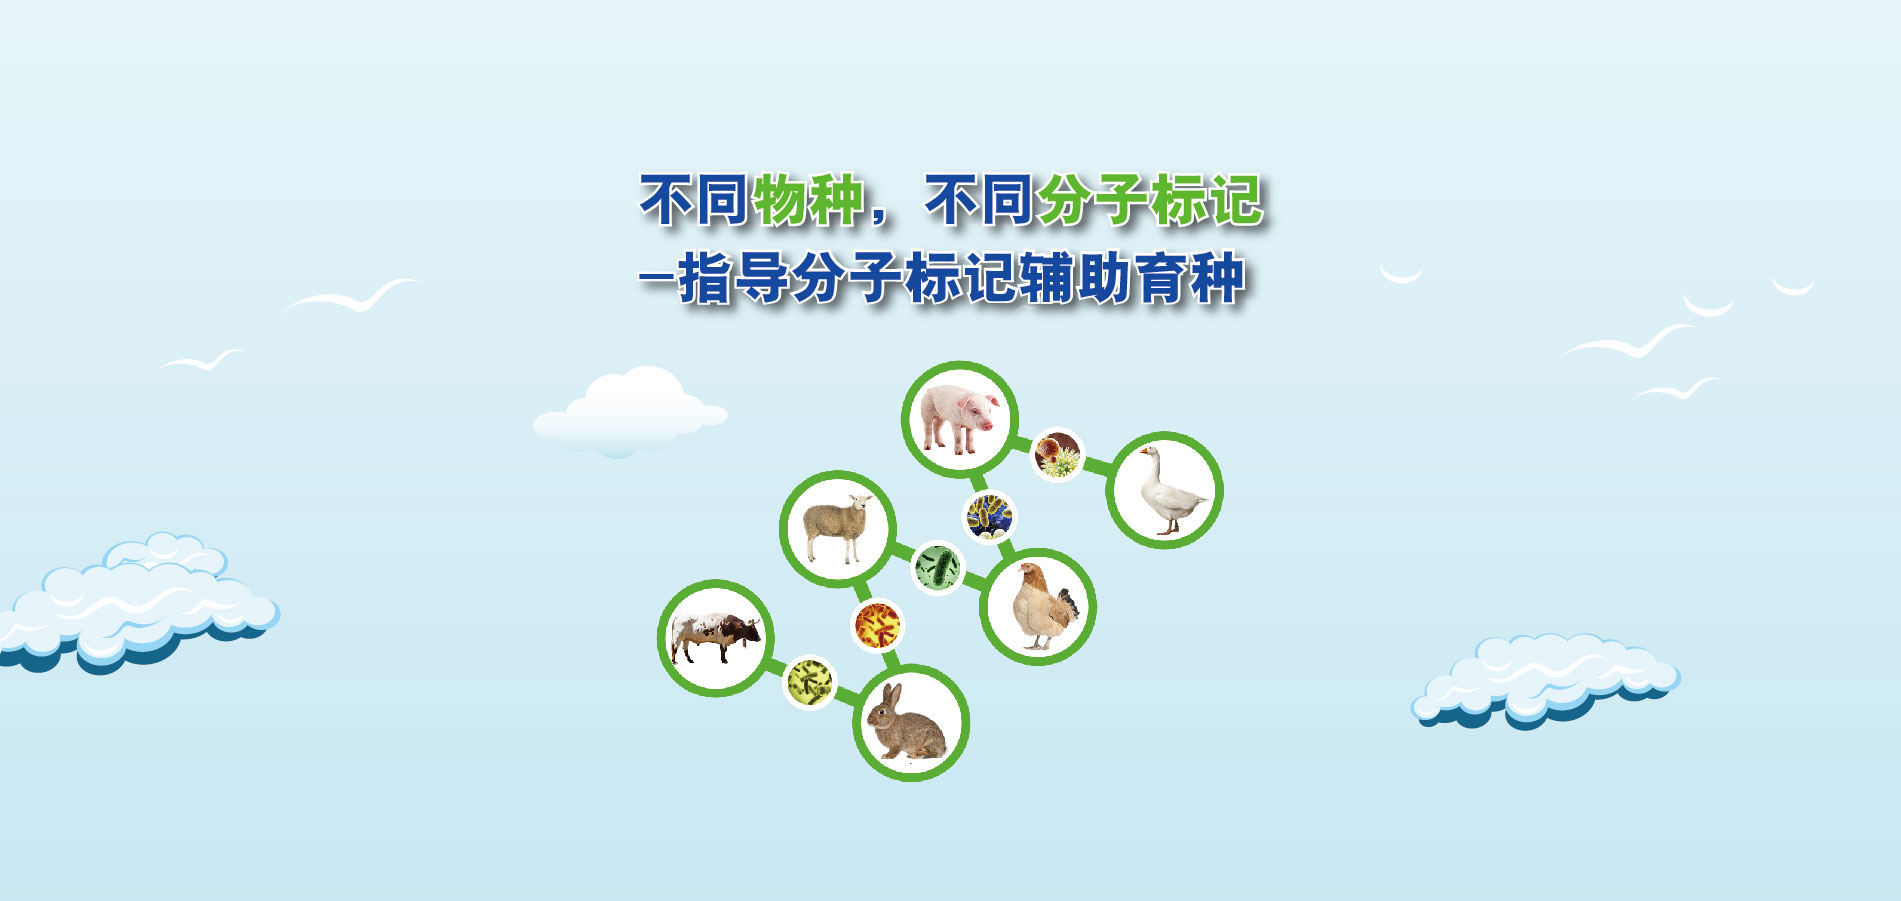
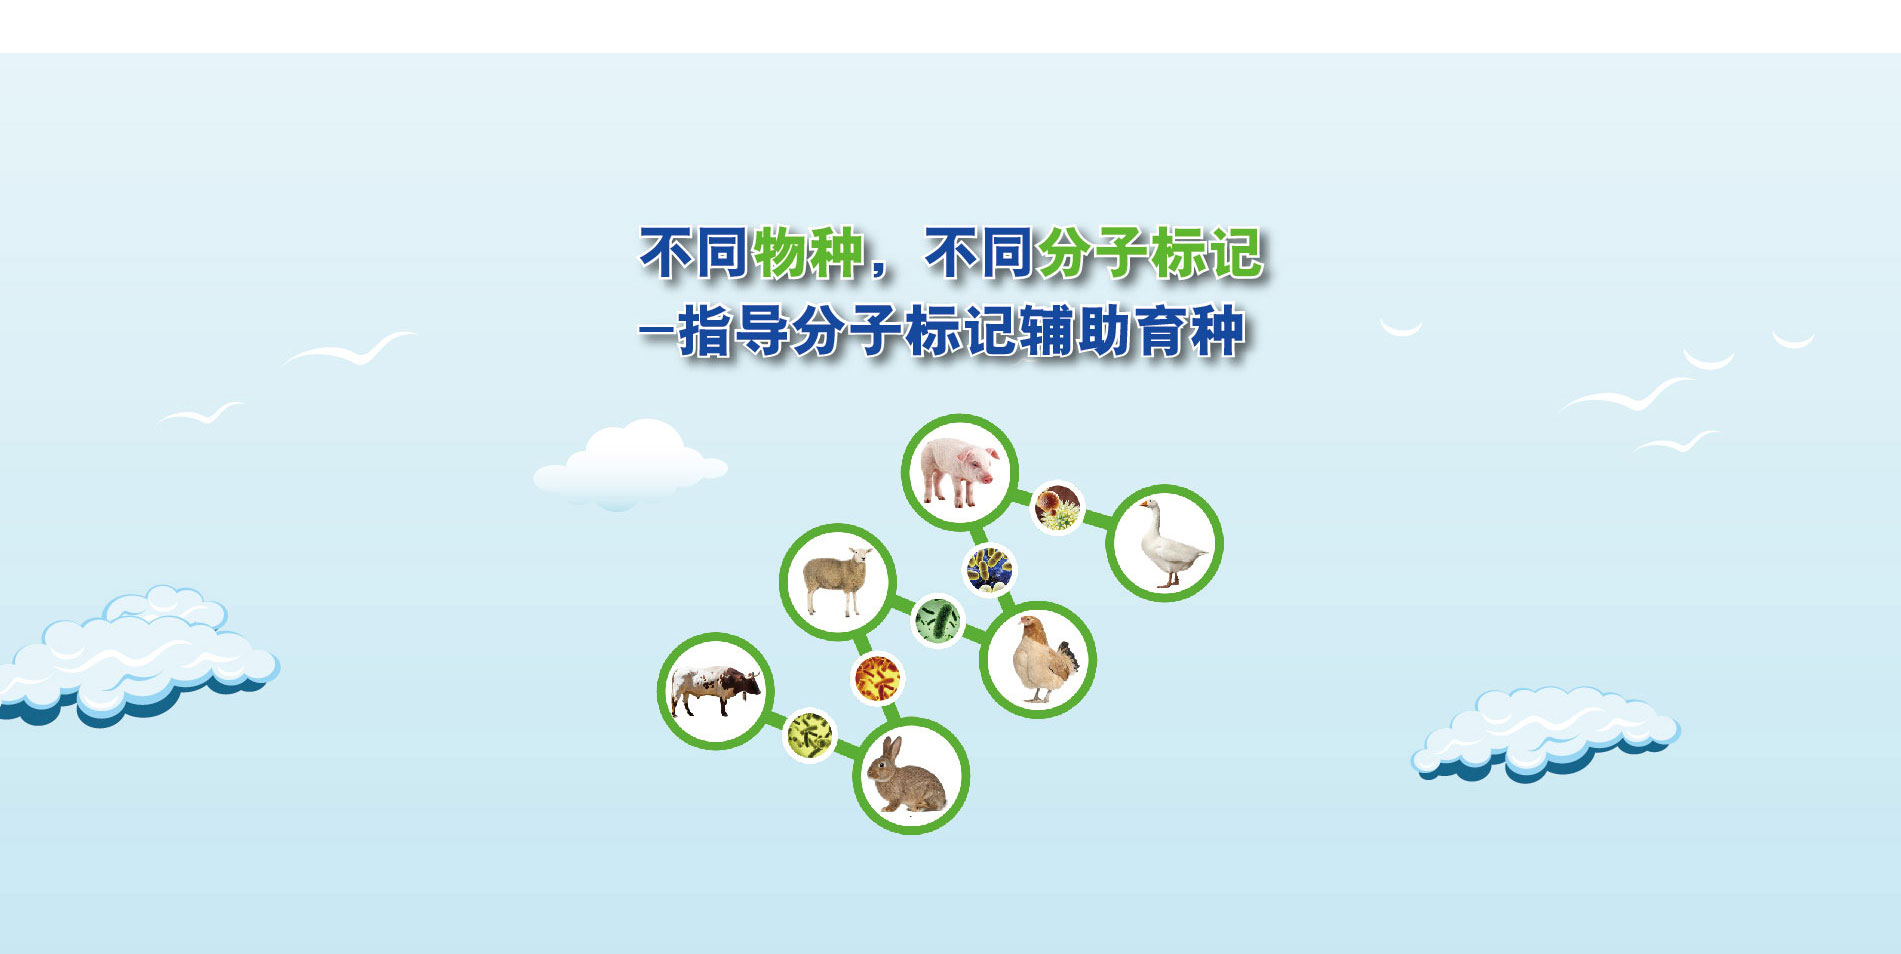
mobile slide adapter and add media for md

diff --git a/templates/desktop/index.html b/templates/desktop/index.html
@@ -8,64 +8,42 @@
         <div class="section" id="slide">
             <div class="flexslider">
                 <ul class="slides">
-                    <li ><img data-src="{% static "img/slide1.jpg" %}" alt=""/></li>
-                    <li><img data-src="{% static "img/slide2.jpg" %}" alt=""/></li>
-                    <li><img data-src="{% static "img/slide3.jpg" %}" alt=""/></li>
-                    <li><img data-src="{% static "img/slide4.jpg" %}" alt=""/></li>
+                    <li><img data-src="{% static "img/slide1.jpg" %}" alt="" align="center"/></li>
+                    <li><img data-src="{% static "img/slide2.jpg" %}" alt=""  align="center"/></li>
+                    <li><img data-src="{% static "img/slide3.jpg" %}" alt=""  align="center"/></li>
+                    <li><img data-src="{% static "img/slide4.jpg" %}" alt=""  align="center"/></li>
                 </ul>
             </div>
         </div>
         <div class="section" id="about">
             <div class="row">
-                <div class="col-xs-8 col-xs-offset-1 col-sm-7 col-sm-offset-1 col-md-6 col-md-offset-4 about-slogns">
+                <div class="col-xs-8 col-xs-offset-1 col-sm-7 col-sm-offset-3 col-lg-9 col-lg-offset-3 about-slogns">
                     <div class="row">
-                        <div class="col-xs-10 col-xs-offset-0 col-sm-8 col-sm-offset-0 col-md-5 col-md-offset-0 about-slogn">
+                        <div class="col-xs-10 col-xs-offset-0 col-sm-8 col-sm-offset-0 col-lg-5 col-lg-offset-0 about-slogn">
                             <h1>聚焦于畜牧业前沿领域</h1>
                         </div>
                     </div>
                     <div class="row">
-                        <div class="col-xs-10 col-xs-offset-1 col-sm-8 col-sm-offset-1 col-md-6 col-md-offset-1 about-slogn">
+                        <div class="col-xs-10 col-xs-offset-1 col-sm-8 col-sm-offset-1 col-lg-6 col-lg-offset-1 about-slogn">
                             <h1>拥有一流的软硬件设施平台</h1>
                         </div>
                     </div>
                     <div class="row">
-                        <div class="col-xs-10 col-xs-offset-2 col-sm-8 col-sm-offset-2 col-md-7 col-md-offset-2 about-slogn">
+                        <div class="col-xs-10 col-xs-offset-2 col-sm-8 col-sm-offset-2 col-lg-6 col-lg-offset-2 about-slogn">
                             <h1>一支经验丰富的专业人才队伍</h1>
                         </div>
                     </div>
                     <div class="row">
-                        <div class="col-xs-10 col-xs-offset-3 col-sm-8 col-sm-offset-3 col-md-8 col-md-offset-3 about-slogn">
+                        <div class="col-xs-10 col-xs-offset-3 col-sm-8 col-sm-offset-3 col-lg-7 col-lg-offset-3 about-slogn">
                             <h1>为您提供专业、高效、高质科研服务</h1>
                         </div>
                     </div>
                 </div>
-{#                <div class="col-xs-10 col-xs-offset-1 col-sm-3 col-sm-offset-0 col-md-2 col-md-offset-0 about-detail">#}
-{#                    <dl>#}
-{#                        <dt><i class="fa fa-hand-o-right" aria-hidden="true"></i>基因组学</dt>#}
-{#                        <dd>功能基因挖掘</dd>#}
-{#                        <dd>性状位点定位</dd>#}
-{#                        <dd>遗传进化研究</dd>#}
-{#                        <dd>分子标记辅助育种</dd>#}
-{#                    </dl>#}
-{#                    <dl>#}
-{#                        <dt><i class="fa fa-hand-o-right" aria-hidden="true"></i>微生物组学</dt>#}
-{#                        <dd>微生物多样性</dd>#}
-{#                        <dd>微生物功能挖掘</dd>#}
-{#                        <dd>动植物与微生物互作</dd>#}
-{#                    </dl>#}
-{#                    <dl>#}
-{#                        <dt><i class="fa fa-hand-o-right" aria-hidden="true"></i>转录组学</dt>#}
-{#                        <dd>调控机制研究</dd>#}
-{#                        <dd>环境适应性研究</dd>#}
-{#                        <dd>遗传进化研究</dd>#}
-{#                        <dd>基因定位</dd>#}
-{#                    </dl>#}
-{#                </div>#}
             </div>
         </div>
         <div class="section" id="service">
             <div class="row">
-                <div class="col-xs-3 col-md-3 service01">
+                <div class="col-xs-3 col-lg-3 service01">
                     <img data-src="{% static "img/service_01.png" %}" class="img-responsive">
                     <div class="content">
                         <h2>基因组测序分析</h2>
@@ -75,7 +53,7 @@
                         <h3>群体进化研究</h3>
                     </div>
                 </div>
-                <div class="col-xs-3 col-md-3 service02">
+                <div class="col-xs-3 col-lg-3 service02">
                     <img data-src="{% static "img/service_02.png" %}" class="img-responsive">
                     <div class="content">
                         <h2>微生物组测序分析</h2>
@@ -84,7 +62,7 @@
                         <h3>16S/18S/ITS等扩增子测序</h3>
                     </div>
                 </div>
-                <div class="col-xs-3 col-md-3 service03">
+                <div class="col-xs-3 col-lg-3 service03">
                     <img data-src="{% static "img/service_03.png" %}" class="img-responsive">
                     <div class="content">
                         <h2>转录组测序分析</h2>
@@ -97,7 +75,7 @@
             </div>
         </div>
         <div class="section" id="contact">
-            <div class="col-xs-10 col-xs-offset-1 col-sm-8 col-sm-offset-2 col-md-2 col-md-offset-2 detail">
+            <div class="col-xs-10 col-xs-offset-1 col-sm-8 col-sm-offset-2 col-lg-3 col-lg-offset-2 detail">
                 <h1>联系我们</h1>
                 <address>
                     <h2><b>地址：</b>深圳市光明新区观光路3009号留创园403室</h2>

diff --git a/templates/mobile/index.html b/templates/mobile/index.html
@@ -1,0 +1,94 @@
+{% extends "base.html" %}
+{% load pages_tags mezzanine_tags i18n staticfiles %}
+
+{% block meta_title %}{% trans "Home" %}{% endblock %}
+{% block title %}{% trans "Home" %}{% endblock %}
+{% block main %}
+    <div id="fullpage">
+        <div class="section" id="slide" style="margin-top: 25px">
+            <div class="flexslider">
+                <ul class="slides">
+                    <li><img data-src="{% static "img/mobile-slide1.jpg" %}" alt=""/></li>
+                    <li><img data-src="{% static "img/mobile-slide2.jpg" %}" alt=""/></li>
+                    <li><img data-src="{% static "img/mobile-slide3.jpg" %}" alt=""/></li>
+                    <li><img data-src="{% static "img/mobile-slide4.jpg" %}" alt=""/></li>
+                </ul>
+            </div>
+        </div>
+        <div class="section" id="about"  style="margin-top: 25px">
+            <div class="row">
+                <div class="col-xs-8 col-xs-offset-1 col-sm-7 col-sm-offset-3 col-lg-9 col-lg-offset-3 about-slogns">
+                    <div class="row">
+                        <div class="col-xs-10 col-xs-offset-0 col-sm-8 col-sm-offset-0 col-lg-5 col-lg-offset-0 about-slogn">
+                            <h1>聚焦于畜牧业前沿领域</h1>
+                        </div>
+                    </div>
+                    <div class="row">
+                        <div class="col-xs-10 col-xs-offset-1 col-sm-8 col-sm-offset-1 col-lg-6 col-lg-offset-1 about-slogn">
+                            <h1>拥有一流的软硬件设施平台</h1>
+                        </div>
+                    </div>
+                    <div class="row">
+                        <div class="col-xs-10 col-xs-offset-2 col-sm-8 col-sm-offset-2 col-lg-6 col-lg-offset-2 about-slogn">
+                            <h1>一支经验丰富的专业人才队伍</h1>
+                        </div>
+                    </div>
+                    <div class="row">
+                        <div class="col-xs-10 col-xs-offset-3 col-sm-8 col-sm-offset-3 col-lg-7 col-lg-offset-3 about-slogn">
+                            <h1>为您提供专业、高效、高质科研服务</h1>
+                        </div>
+                    </div>
+                </div>
+            </div>
+        </div>
+        <div class="section" id="service"  style="margin-top: 25px">
+            <div class="row">
+                <div class="col-xs-3 col-lg-3 service01">
+                    <img data-src="{% static "img/service_01.png" %}" class="img-responsive">
+                    <div class="content">
+                        <h2>基因组测序分析</h2>
+                        <h3>检测变异位点</h3>
+                        <h3>BSA性状定位</h3>
+                        <h3>挖掘功能基因</h3>
+                        <h3>群体进化研究</h3>
+                    </div>
+                </div>
+                <div class="col-xs-3 col-lg-3 service02">
+                    <img data-src="{% static "img/service_02.png" %}" class="img-responsive">
+                    <div class="content">
+                        <h2>微生物组测序分析</h2>
+                        <h3>单菌基因组测序</h3>
+                        <h3>宏基因组测序</h3>
+                        <h3>16S/18S/ITS等扩增子测序</h3>
+                    </div>
+                </div>
+                <div class="col-xs-3 col-lg-3 service03">
+                    <img data-src="{% static "img/service_03.png" %}" class="img-responsive">
+                    <div class="content">
+                        <h2>转录组测序分析</h2>
+                        <h3>真核转录组测序</h3>
+                        <h3>原核转录组测序</h3>
+                        <h3>LncRNA测序</h3>
+                        <h3>Small RNA测序</h3>
+                    </div>
+                </div>
+            </div>
+        </div>
+        <div class="section" id="contact"  style="margin-top: 25px">
+            <div class="col-xs-10 col-xs-offset-1 col-sm-8 col-sm-offset-2 col-lg-3 col-lg-offset-2 detail">
+                <h1>联系我们</h1>
+                <address>
+                    <h2><b>地址：</b>深圳市光明新区观光路3009号留创园403室</h2>
+{#                    <h2><b>电话：</b>021-5100-1612</h2>#}
+                    <h2><b>邮箱：</b><a href="mailto:jinruibio@163.com">jinruibio@163.com</a> </h2>
+                    <h2><b>微信：</b>jinruibio</h2>
+                    <img data-src="{% static "img/weixin.jpg" %}" class="img-responsive">
+                    <h2><b>友情链接：</b><a href="http://realbio.cn">上海锐翌</a>&nbsp;&nbsp;<a href="http://www.chengnong.com">深圳金新农</a></h2>
+                </address>
+            </div>
+
+        </div>
+    </div>
+{% endblock %}
+
+

diff --git a/static/css/style.css b/static/css/style.css
@@ -1,9 +1,7 @@
 body, p, a, h1, h2, h3, dt, dd {
     font-family: "Microsoft YaHei Light", "Microsoft YaHei", "WenQuanYi Micro Hei", sans-serif;
 }
-#slide {
-    padding-top: 25px;
-}
+
 #about, #service, #contact {
     margin-top: 54px;
 }
@@ -124,11 +122,6 @@ body, p, a, h1, h2, h3, dt, dd {
     color: #fff;
 }
 
-#contact {
-
-    background: url("../img/contact-back.jpg") no-repeat;
-}
-
 #contact .detail address h2 a:hover {
     font-weight: bold;
     text-decoration: none;
@@ -139,40 +132,66 @@ footer {
     padding: 20px 0;
 }
 
-
 @media (max-width: 768px) {
     #about {
         background: top 30% left 35% url("../img/about-back.jpg") no-repeat;
     }
+    #contact {
+        background: top 20% left 20% url("../img/contact-back.jpg") no-repeat;
+    }
     p {
         font-size: 2.5vw;
     }
-
     h1, .about-detail dt {
         font-size: 4vw;
     }
-
     .about-slogn h1 {
         font-size: 3.2vw;
     }
-
     h2, .about-detail dd {
         font-size: 3vw;
     }
-
     .about-detail {
         margin-top: 4%;
     }
-
     h3 {
         font-size: 2.5vw;
         font-weight: lighter;
     }
 }
-
 @media (max-width: 992px) and (min-width: 768px) {
     #about {
         background: top 10% left 20% url("../img/about-back.jpg") no-repeat;
+    }
+    #contact {
+        background: url("../img/contact-back.jpg") no-repeat;
+    }
+    .about-slogns {
+        margin-top: 7%;
+    }
+    h1, .about-detail dt {
+        font-size: 2.2vw;
+    }
+    h2, .about-detail dd {
+        font-size: 1.8vw;
+    }
+    .about-detail dd {
+        text-indent: 2em;
+    }
+    .about-detail {
+        margin-top: 4%;
+    }
+    h3 {
+        font-size: 1vw;
+    }
+}
+@media (min-width: 992px) and (max-width: 1200px) {
+    #about {
+        background: top 10% left 20% url("../img/about-back.jpg") no-repeat;
+    }
+
+    #contact {
+        background: top 20% left 40% url("../img/contact-back.jpg") no-repeat;
     }
 
     .about-slogns {
@@ -199,26 +218,20 @@ footer {
         font-size: 1vw;
     }
 }
-
-@media (min-width: 992px) {
+@media (min-width: 1200px) {
     #about {
         background: url("../img/about-back.jpg") no-repeat;
     }
-
-    p {
-        font-size: 1.1em;
-        text-indent: 2em;
+    #contact {
+        background: url("../img/contact-back.jpg") no-repeat;
     }
-
     h1, dt {
-        font-size: 2.5em;
+        font-size: 2.2em;
         font-weight: bold;
     }
-
     h2, dd {
         font-size: 1.2em;
     }
-
     h3 {
         font-size: 1em;
         font-weight: bold;

diff --git a/templates/base.html b/templates/base.html
@@ -18,7 +18,6 @@
 
     {% compress css %}
         <link rel="stylesheet" href="{% static "css/bootstrap.min.css" %}">
-        <link rel="stylesheet" href="{% static "css/bootstrap-theme.css" %}">
         {% if LANGUAGE_BIDI %}
             <link rel="stylesheet" href="{% static "css/bootstrap-rtl.css" %}">
         {% endif %}
@@ -65,10 +64,10 @@
     {% block extra_head %}{% endblock %}
 </head>
 
-<body id="{% block body_id %}page-top{% endblock %}" data-spy="scroll" data-target=".navbar-fixed-top">
+<body id="{% block body_id %}page-top{% endblock %}">
 <nav class="navbar navbar-default navbar-fixed-top" role="navigation">
     <div class="container">
-        <div class="navbar-header page-scroll">
+        <div class="navbar-header">
             <button type="button" class="navbar-toggle" data-toggle="collapse" data-target=".navbar-collapse">
                 <span class="sr-only">{% trans "Toggle Navigation" %}</span>
                 <span class="icon-bar"></span>
@@ -83,16 +82,16 @@
             <ul class="nav navbar-nav">
                 <!-- Hidden li included to remove active class from about link when scrolled up past about section -->
                 <li class="hidden">
-                    <a class="page-scroll" href="#page-top"></a>
+                    <a href="#page-top"></a>
                 </li>
                 <li>
-                    <a class="page-scroll" href="#about-section">关于我们</a>
+                    <a href="#about-section">关于我们</a>
                 </li>
                 <li>
-                    <a class="page-scroll" href="#services-section">业务介绍</a>
+                    <a href="#services-section">业务介绍</a>
                 </li>
                 <li>
-                    <a class="page-scroll" href="#contact-section">联系我们</a>
+                    <a href="#contact-section">联系我们</a>
                 </li>
             </ul>
         </div>

diff --git a/static/css/flexslider.css b/static/css/flexslider.css
@@ -17,7 +17,7 @@ url('fonts/flexslider-icon.svg#flexslider-icon') format('svg');font-weight:norma
 html[xmlns] .slides{display:block;}
 * html .slides{height:1%;}
 .no-js .slides > li:first-child{display:block;}
-.flexslider{position:relative;zoom:1;max-height:900px;}
+.flexslider{position:relative;zoom:1;max-height:990px;}
 .flex-viewport{max-height:2000px;-webkit-transition:all 1s ease;-moz-transition:all 1s ease;-o-transition:all 1s ease;transition:all 1s ease;}
 .loading .flex-viewport{max-height:300px;}
 .flexslider .slides{zoom:1;}

diff --git a/jinrui/settings.py b/jinrui/settings.py
@@ -115,6 +115,11 @@ LANGUAGES = (
     ('en', _('English')),
 )
 
+DEVICE_USER_AGENTS = (
+    ("mobile", ("Android", "BlackBerry", "iPhone")),
+    ("desktop", ("Windows", "Macintosh", "Linux", "ipad")),
+)
+
 # A boolean that turns on/off debug mode. When set to ``True``, stack traces
 # are displayed for error pages. Should always be set to ``False`` in
 # production. Best set to ``True`` in local_settings.py
